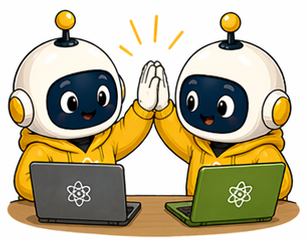
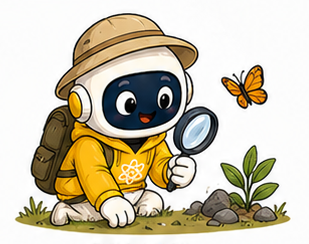
Wire author social links for Wei Chow and Linfeng Li; update contribute figure

diff --git a/awesome-ai-auto-research.html b/awesome-ai-auto-research.html
@@ -4140,11 +4140,8 @@ Built from controlled experiments and 250+ papers. Free + open. <span class="men
                         <div class="contributor-note">National University of Singapore</div>
                       </div>
                       <div class="contributor-links">
-                        <a href="" target="_blank" aria-label="Homepage"><i class="fas fa-globe"></i></a>
-                        <a href="" target="_blank" aria-label="Google Scholar"><i class="ai ai-google-scholar"></i></a>
-                        <a href="" target="_blank" aria-label="LinkedIn"><i class="fab fa-linkedin"></i></a>
-                        <a href="" target="_blank" aria-label="GitHub"><i class="fab fa-github"></i></a>
-                        <a href="" target="_blank" aria-label="X"><i class="fab fa-twitter"></i></a>
+                        <a href="https://scholar.google.com/citations?user=br7-IGkAAAAJ&hl=en" target="_blank" aria-label="Google Scholar"><i class="ai ai-google-scholar"></i></a>
+                        <a href="https://github.com/weichow23" target="_blank" aria-label="GitHub"><i class="fab fa-github"></i></a>
                       </div>
                     </div>
 
@@ -4156,11 +4153,8 @@ Built from controlled experiments and 250+ papers. Free + open. <span class="men
                         <div class="contributor-note">National University of Singapore</div>
                       </div>
                       <div class="contributor-links">
-                        <a href="" target="_blank" aria-label="Homepage"><i class="fas fa-globe"></i></a>
-                        <a href="" target="_blank" aria-label="Google Scholar"><i class="ai ai-google-scholar"></i></a>
-                        <a href="" target="_blank" aria-label="LinkedIn"><i class="fab fa-linkedin"></i></a>
-                        <a href="" target="_blank" aria-label="GitHub"><i class="fab fa-github"></i></a>
-                        <a href="" target="_blank" aria-label="X"><i class="fab fa-twitter"></i></a>
+                        <a href="https://scholar.google.com/citations?hl=en&user=MyQF3XkAAAAJ&hl=en" target="_blank" aria-label="Google Scholar"><i class="ai ai-google-scholar"></i></a>
+                        <a href="https://www.linkedin.com/in/linfeng-li-9b54a9254" target="_blank" aria-label="LinkedIn"><i class="fab fa-linkedin"></i></a>
                       </div>
                     </div>
 
@@ -4205,9 +4199,7 @@ Built from controlled experiments and 250+ papers. Free + open. <span class="men
                       <div class="contributor-links">
                         <a href="" target="_blank" aria-label="Homepage"><i class="fas fa-globe"></i></a>
                         <a href="" target="_blank" aria-label="Google Scholar"><i class="ai ai-google-scholar"></i></a>
-                        <a href="" target="_blank" aria-label="LinkedIn"><i class="fab fa-linkedin"></i></a>
                         <a href="" target="_blank" aria-label="GitHub"><i class="fab fa-github"></i></a>
-                        <a href="" target="_blank" aria-label="X"><i class="fab fa-twitter"></i></a>
                       </div>
                     </div>
 